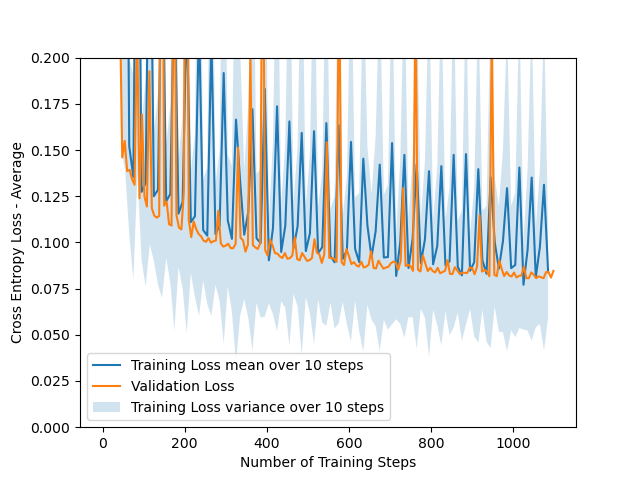
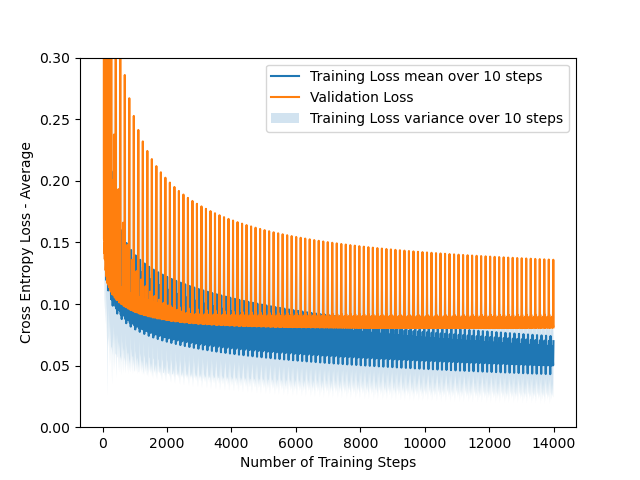
solve parts of task4

diff --git a/assignment1/task4.py b/assignment1/task4.py
@@ -3,7 +3,7 @@ import utils
 import matplotlib.pyplot as plt
 from task2a import pre_process_images
 from trainer import BaseTrainer
-from task3a import cross_entropy_loss, SoftmaxModel, one_hot_encode
+from task4a import cross_entropy_loss, SoftmaxModel, one_hot_encode
 np.random.seed(0)
 
 
@@ -102,25 +102,25 @@ if __name__ == "__main__":
     print("Final Train accuracy:", calculate_accuracy(X_train, Y_train, model))
     print("Final Validation accuracy:", calculate_accuracy(X_val, Y_val, model))
 
-    plt.ylim([0.2, .6])
-    utils.plot_loss(train_history["loss"],
-                    "Training Loss", npoints_to_average=10)
-    utils.plot_loss(val_history["loss"], "Validation Loss")
-    plt.legend()
-    plt.xlabel("Number of Training Steps")
-    plt.ylabel("Cross Entropy Loss - Average")
-    plt.savefig("task3b_softmax_train_loss.png")
-    plt.show()
+    # plt.ylim([0.2, .6])
+    # utils.plot_loss(train_history["loss"],
+    #                 "Training Loss", npoints_to_average=10)
+    # utils.plot_loss(val_history["loss"], "Validation Loss")
+    # plt.legend()
+    # plt.xlabel("Number of Training Steps")
+    # plt.ylabel("Cross Entropy Loss - Average")
+    # plt.savefig("task3b_softmax_train_loss.png")
+    # plt.show()
 
-    # Plot accuracy
-    plt.ylim([0.93, .99])
-    utils.plot_loss(train_history["accuracy"], "Training Accuracy")
-    utils.plot_loss(val_history["accuracy"], "Validation Accuracy")
-    plt.xlabel("Number of Training Steps")
-    plt.ylabel("Accuracy")
-    plt.legend()
-    plt.savefig("task3b_softmax_train_accuracy.png")
-    plt.show()
+    # # Plot accuracy
+    # plt.ylim([0.93, .99])
+    # utils.plot_loss(train_history["accuracy"], "Training Accuracy")
+    # utils.plot_loss(val_history["accuracy"], "Validation Accuracy")
+    # plt.xlabel("Number of Training Steps")
+    # plt.ylabel("Accuracy")
+    # plt.legend()
+    # plt.savefig("task3b_softmax_train_accuracy.png")
+    # plt.show()
 
     # Train a model with L2 regularization (task 4b)
 
@@ -133,10 +133,49 @@ if __name__ == "__main__":
     # You can finish the rest of task 4 below this point.
 
     # Plotting of softmax weights (Task 4b)
-    #plt.imsave("task4b_softmax_weight.png", weight, cmap="gray")
+    # Shape of weights: [785, num_outputs]
+    # weight = model.w
+    # fig = plt.figure(figsize=(10,6))
+
+    # for i in range(0,10):
+    #     sub = fig.add_subplot(2,10, i+1)
+    #     sub.set_title(str(i))
+    #     sub.axis('off')
+    #     class_weights = weight[0:784,i]
+    #     current_picture = np.reshape(class_weights, [28,28])
+    #     sub.imshow(current_picture, interpolation='nearest', cmap="gray")
+
+    # weight = model1.w
+
+    # for i in range(0,10):
+    #     sub = fig.add_subplot(2,10, 10+i+1)
+    #     sub.set_title(str(i))
+    #     sub.axis('off')
+    #     class_weights = weight[0:784,i]
+    #     current_picture = np.reshape(class_weights, [28,28])
+    #     sub.imshow(current_picture, interpolation='nearest', cmap="gray")
+
+    # plt.imsave("task4b_softmax_weight.png", weight, cmap="gray")
 
     # Plotting of accuracy for difference values of lambdas (task 4c)
+
+    # Plot accuracy
+    plt.ylim([0.93, .99])
+
+    plt.xlabel("Number of Training Steps")
+    plt.ylabel("Accuracy")
+
     l2_lambdas = [2, .2, .02, .002]
+    for l2_lambda in l2_lambdas:
+        model2 = SoftmaxModel(l2_reg_lambda=l2_lambda)
+        trainer2 = SoftmaxTrainer(
+        model2, learning_rate, batch_size, shuffle_dataset,
+        X_train, Y_train, X_val, Y_val,
+        )
+        train_history_reg02, val_history_reg02 = trainer.train(num_epochs)
+        utils.plot_loss(val_history_reg02["accuracy"], "Validation Accuracy, $\lambda$ = "+str(l2_lambda))
+    plt.legend()
+    plt.show()
     plt.savefig("task4c_l2_reg_accuracy.png")
 
     # Task 4d - Plotting of the l2 norm for each weight

diff --git a/assignment1/task2.py b/assignment1/task2.py
@@ -39,7 +39,7 @@ class LogisticTrainer(BaseTrainer):
         # (task 2b)
         outputs = self.model.forward(X_batch)
         self.model.backward(X_batch, outputs, Y_batch)
-        self.model.w -= self.learning_rate*self.model.grad
+        self.model.w = self.model.w - self.learning_rate*self.model.grad
         loss = cross_entropy_loss(Y_batch, outputs)
         return loss
 
@@ -102,7 +102,7 @@ if __name__ == "__main__":
     print("Validation accuracy:", calculate_accuracy(X_val, Y_val, model))
 
     # Plot loss for first model (task 2b)
-    plt.ylim([0., .2])
+    plt.ylim([0., .3])
     utils.plot_loss(train_history["loss"],
                     "Training Loss", npoints_to_average=10)
     utils.plot_loss(val_history["loss"], "Validation Loss")
@@ -113,7 +113,7 @@ if __name__ == "__main__":
     plt.show()
 
     # Plot accuracy
-    plt.ylim([0.93, .99])
+    plt.ylim([0.80, .99])
     utils.plot_loss(train_history["accuracy"], "Training Accuracy")
     utils.plot_loss(val_history["accuracy"], "Validation Accuracy")
     plt.xlabel("Number of Training Steps")
@@ -133,7 +133,7 @@ if __name__ == "__main__":
     )
     train_history_shuffle, val_history_shuffle = trainer.train(num_epochs)
 
-    plt.ylim([0., .2])
+    plt.ylim([0., .3])
     utils.plot_loss(train_history["loss"],
                     "Training Loss", npoints_to_average=10)
     utils.plot_loss(
@@ -144,7 +144,7 @@ if __name__ == "__main__":
     plt.savefig("task2e_train_loss_with_shuffle.png")
     plt.show()
 
-    plt.ylim([0.93, .99])
+    plt.ylim([0.8, .99])
     utils.plot_loss(val_history["accuracy"], "Validation Accuracy")
     utils.plot_loss(
         val_history_shuffle["accuracy"], "Validation Accuracy with shuffle")

diff --git a/assignment1/trainer.py b/assignment1/trainer.py
@@ -73,7 +73,7 @@ class BaseTrainer:
         )
 
         global_step = 0
-        prev_min_loss = float("inf")
+        min_loss = float("inf")
         times_not_improving = 0
         for epoch in range(num_epochs):
             train_loader = utils.batch_loader(
@@ -91,17 +91,17 @@ class BaseTrainer:
                     val_history["accuracy"][global_step] = accuracy_val
 
                     # (Task 2d): Early stopping.
-                    if (val_loss < prev_min_loss):
-                        # We have found a better loss
-                        # i.e. the loss has improved
-                        times_not_improving = 0
-                        prev_min_loss = val_loss
-                    else:
-                        # Loss is not improving:
-                        times_not_improving += 1
-                        if times_not_improving >= 10:
-                            print("Early stopping at epoch number " + str(epoch))
-                            return train_history, val_history
+                    # if (val_loss < min_loss):
+                    #     # We have found a better loss
+                    #     # i.e. the loss has improved
+                    #     times_not_improving = 0
+                    #     min_loss = val_loss
+                    # else:
+                    #     # Loss is not improving:
+                    #     times_not_improving += 1
+                    #     if times_not_improving >= 10:
+                    #         print("Early stopping at epoch number " + str(epoch))
+                    #         return train_history, val_history
 
                 global_step += 1
         return train_history, val_history

diff --git a/assignment1/task4a.py b/assignment1/task4a.py
@@ -12,7 +12,6 @@ def cross_entropy_loss(targets: np.ndarray, outputs: np.ndarray):
     Returns:
         Cross entropy error (float)
     """
-    # TODO implement this function (Task 3a)
 
     assert targets.shape == outputs.shape,\
         f"Targets shape: {targets.shape}, outputs: {outputs.shape}"
@@ -68,17 +67,16 @@ class SoftmaxModel:
             targets: labels/targets of each image of shape: [batch size, num_classes]
         """
 
-        # To implement L2 regularization task (4b) you can get the lambda value in self.l2_reg_lambda
-        # which is defined in the constructor.
-
         assert targets.shape == outputs.shape,\
             f"Output shape: {outputs.shape}, targets: {targets.shape}"
         self.grad = np.zeros_like(self.w)
-        # (Task 3a)
+        # (Task 4b)
         # dc_dw = [batch size, 785]*[batch_size, num_outputs]
+        # w = [785, num_outputs]
         # result should be [785, num_outputs]
         dc_dw = -X.T@(targets-outputs) / X.shape[0]
-        self.grad = dc_dw
+        # dR_dw = np.sum(self.w)
+        self.grad = dc_dw + self.l2_reg_lambda*self.w
 
         assert self.grad.shape == self.w.shape,\
             f"Grad shape: {self.grad.shape}, w: {self.w.shape}"

diff --git a/assignment1/utils.py b/assignment1/utils.py
@@ -27,6 +27,7 @@ def batch_loader(
 
     if (shuffle):
         # (task 2e)
+        # See https://stackoverflow.com/a/4602224
         idx = np.random.permutation(len(Y))
         X = X[idx]
         Y = Y[idx]
